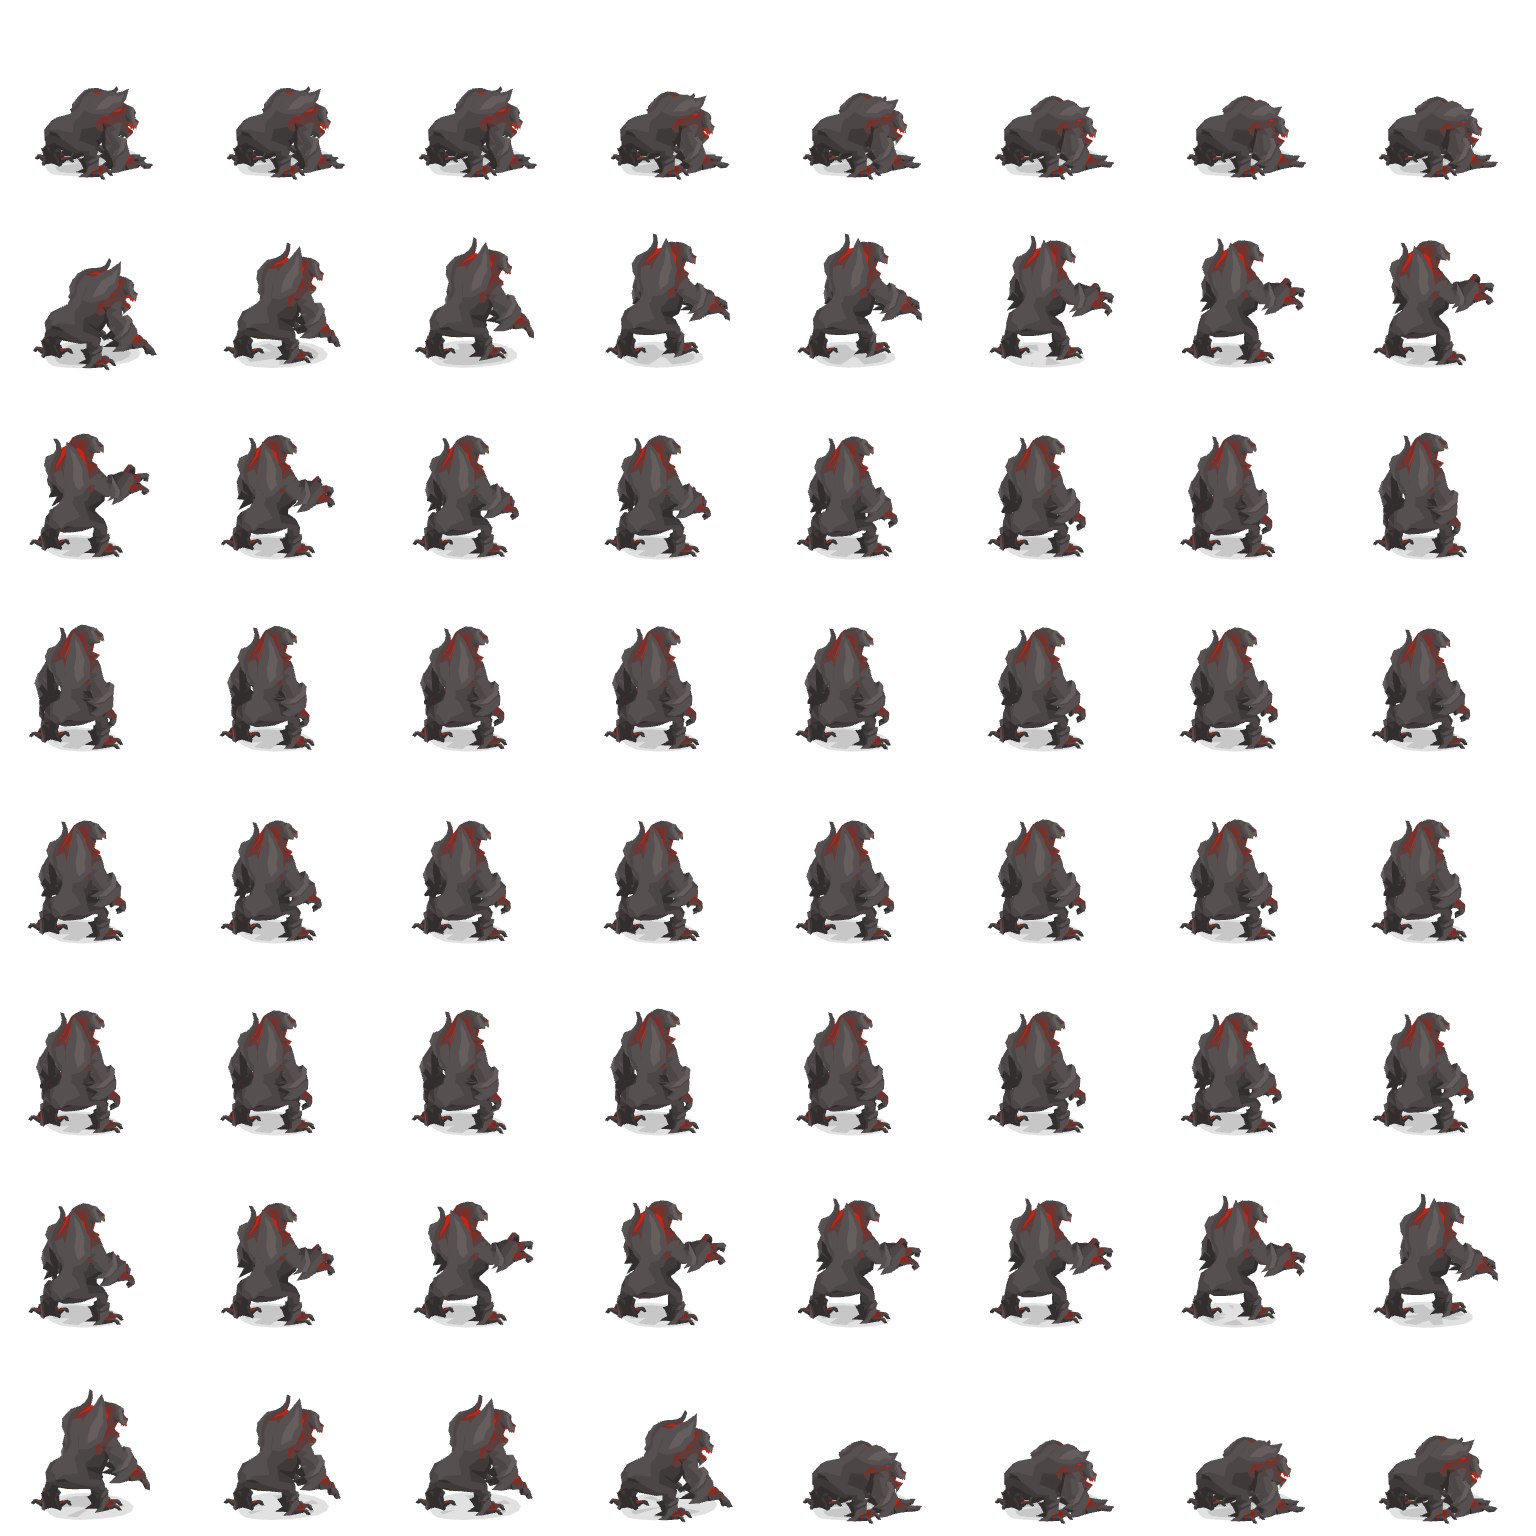
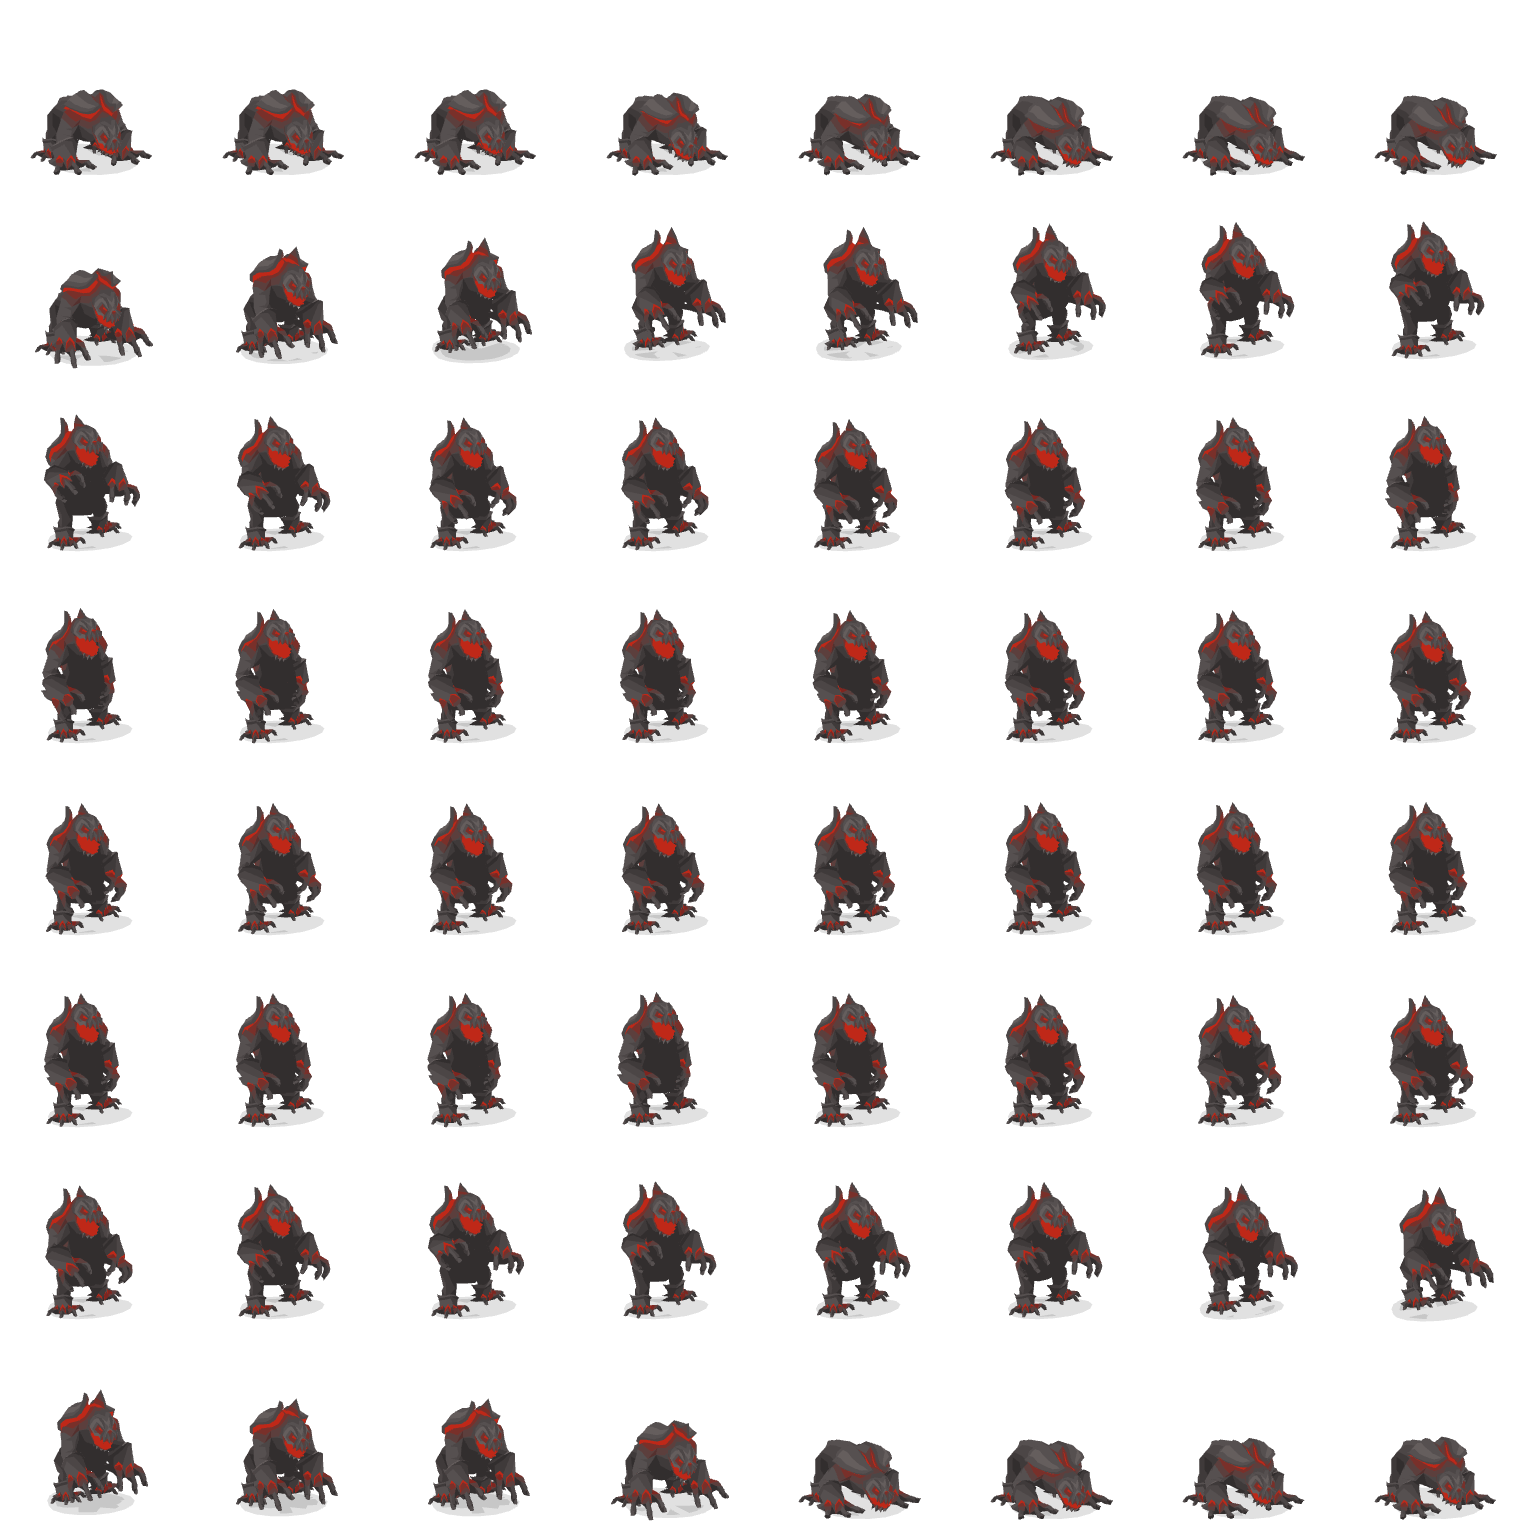
Face monster animations toward the player

diff --git a/scripts/monster-sprites/viewer.html b/scripts/monster-sprites/viewer.html
@@ -45,7 +45,9 @@
             if (o.material.length === 1) o.material = o.material[0];
           }
         });
-        model.rotation.y = (Math.PI * 3) / 4;
+        // These models face +Z. Keep the camera on their front, with a slight
+        // turn so casts, arm movements and Jad's stomps remain easy to read.
+        model.rotation.y = Math.PI / 6;
         mixer = new THREE.AnimationMixer(model);
         clips = gltf.animations;
         const box = new THREE.Box3();

diff --git a/docs/verification.md b/docs/verification.md
@@ -73,3 +73,10 @@ Screenshots and raw DevTools output are temporary verification artifacts, not sh
 - Replaced the small blob illustration and plain heading with official Jagex Zuk artwork, a shorter introduction and responsive desktop/mobile crops. Optimized local WebP sources are approximately 106 KB and 38 KB.
 - Chrome DevTools screenshots reviewed at 1440 × 1000 and 390 × 844: Zuk and the heading remain legible, the next-drill action follows directly below, and the page has no horizontal overflow.
 - Production build/check passed without diagnostics. Existing overview/artwork/credits, troubleshooting navigation and LoS-link browser checks all passed.
+
+## Monster facing correction
+
+- Compared all six models at eight camera-relative angles. The original 135° rotation showed their backs; a 30° rotation shows their faces and keeps attack movements visible.
+- Regenerated all 14 idle/attack sheets and visually reviewed sampled frames from every clip. Frame counts and animation durations are unchanged.
+- Chrome DevTools confirmed the corrected mager/blob sprites in the desktop drill and advancing attack frames on mobile, with no horizontal overflow or console errors.
+- Production build/check and the three existing mager-cue, mixed-movement animation/pause, and triple-Jad browser tests passed.
